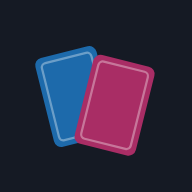
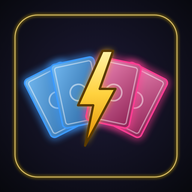
Add files via upload

diff --git a/index.html b/index.html
@@ -975,6 +975,50 @@ details.giocati[open] > summary { margin-bottom: 4px; }
   .finale-torneo .stella.con-testo, .finale-torneo .btn { padding: 6px 12px; }
 }
 
+/* ---------- Apertura dell'app (solo telefoni) ----------
+   Sfondo come l'icona, logo un po' sopra il centro, nome al neon che si accende.
+   Si vede dal primo istante (prima che parta il codice) e lo chiude app.js. */
+.apertura { display: none; }
+@media (hover: none) and (pointer: coarse) and (max-width: 600px),
+       (hover: none) and (pointer: coarse) and (max-height: 600px) {
+  :root:not(.app-aperta) { background: #0d0c18; }
+  :root:not(.app-aperta) .apertura { display: grid; }
+}
+.apertura {
+  position: fixed; inset: 0; z-index: 50;
+  background: radial-gradient(ellipse 90% 70% at 50% 45%, #1e1b38 0%, #0d0c18 55%, #07080d 100%);
+  align-content: center; justify-items: center; gap: clamp(18px, 4.5vh, 34px);
+  padding: var(--alto) 24px calc(env(safe-area-inset-bottom, 0px) + 9vh);   /* un po' sopra il centro */
+  transition: opacity .38s ease;
+  /* Per sicurezza: se il codice non parte, dopo 6 secondi sparisce da sola */
+  animation: apertura-sicura 0s 6s forwards;
+}
+.apertura.chiude { opacity: 0; pointer-events: none; }
+@keyframes apertura-sicura { to { visibility: hidden; pointer-events: none; } }
+.apertura-logo {
+  width: min(68vw, 42vh, 320px); height: auto; overflow: visible;
+  animation: apertura-logo .75s cubic-bezier(.2, .8, .2, 1) both;
+}
+@keyframes apertura-logo {
+  from { opacity: 0; transform: translateY(14px) scale(.9); }
+  to { opacity: 1; transform: none; }
+}
+.apertura-nome {
+  display: flex; font-family: var(--font-num); font-weight: 700; line-height: 1;
+  font-size: clamp(2.6rem, 13vw, 4rem); letter-spacing: .02em; transform: skewX(-8deg);
+}
+/* Neon: il tubo è il contorno chiaro delle lettere, il colore è la luce intorno */
+.neon {
+  color: transparent; -webkit-text-stroke: 2px var(--tubo);
+  filter: drop-shadow(0 0 2px var(--tubo)) drop-shadow(0 0 8px var(--luce)) drop-shadow(0 0 20px var(--luce));
+}
+.neon.blu { --tubo: #d9edff; --luce: #3d9bff; animation: neon-accende 1.1s .3s both; }
+.neon.mag { --tubo: #ffdcec; --luce: #ff3d93; animation: neon-accende 1.1s .55s both; }
+@keyframes neon-accende {
+  0% { opacity: 0; } 8% { opacity: .9; } 12% { opacity: .1; } 20% { opacity: 1; }
+  24% { opacity: .25; } 32%, 100% { opacity: 1; }
+}
+
 @media (prefers-reduced-motion: reduce) {
   *, *::before, *::after { animation: none !important; transition: none !important; }
   .delta.mostra { opacity: 1; }
@@ -1417,18 +1461,68 @@ details.giocati[open] > summary { margin-bottom: 4px; }
   <button type="button" class="btn" id="ruota-continua" data-t="ruota.continua">Continua in verticale</button>
 </div>
 
+<!-- Apertura dell'app (solo sui telefoni): logo e nome al neon, poi la Home -->
+<div class="apertura" id="apertura" aria-hidden="true">
+  <svg xmlns="http://www.w3.org/2000/svg" viewBox="40 96 432 336" class="apertura-logo" aria-hidden="true" focusable="false">
+    <defs>
+      <radialGradient id="ap-bg" cx="50%" cy="48%" r="72%">
+        <stop offset="0" stop-color="#1e1b38"/><stop offset="1" stop-color="#07080d"/>
+      </radialGradient>
+      <linearGradient id="ap-oro" x1="0" y1="0" x2="0" y2="1">
+        <stop offset="0" stop-color="#fff2a8"/><stop offset=".45" stop-color="#ffd23f"/><stop offset="1" stop-color="#e08a00"/>
+      </linearGradient>
+      <filter id="ap-alone" x="-60%" y="-60%" width="220%" height="220%"><feGaussianBlur stdDeviation="11"/></filter>
+      <filter id="ap-alone2" x="-50%" y="-50%" width="200%" height="200%"><feGaussianBlur stdDeviation="4"/></filter>
+      <linearGradient id="ap-blu" x1="0" y1="0" x2="1" y2="1">
+        <stop offset="0" stop-color="#74baf2"/><stop offset="1" stop-color="#1a5794"/>
+      </linearGradient>
+      <linearGradient id="ap-mag" x1="0" y1="0" x2="1" y2="1">
+        <stop offset="0" stop-color="#f28bba"/><stop offset="1" stop-color="#8e2255"/>
+      </linearGradient>
+    </defs>
+    <g transform="translate(256 262) scale(.84) translate(-256 -261)">
+      <g transform="translate(256 506) rotate(-27)">
+        <rect x="-70" y="-372" width="140" height="206" rx="14" fill="none" stroke="#3d9bff" stroke-width="16" opacity=".7" filter="url(#ap-alone)"/>
+        <rect x="-70" y="-372" width="140" height="206" rx="14" fill="url(#ap-blu)" stroke="#3d9bff" stroke-width="5"/>
+        <rect x="-59" y="-361" width="118" height="184" rx="8" fill="none" stroke="#fff" stroke-opacity=".45" stroke-width="4"/>
+        <circle cx="0" cy="-269" r="26" fill="none" stroke="#fff" stroke-opacity=".5" stroke-width="5"/>
+      </g>
+      <g transform="translate(256 506) rotate(27)">
+        <rect x="-70" y="-372" width="140" height="206" rx="14" fill="none" stroke="#ff3d93" stroke-width="16" opacity=".7" filter="url(#ap-alone)"/>
+        <rect x="-70" y="-372" width="140" height="206" rx="14" fill="url(#ap-mag)" stroke="#ff3d93" stroke-width="5"/>
+        <rect x="-59" y="-361" width="118" height="184" rx="8" fill="none" stroke="#fff" stroke-opacity=".45" stroke-width="4"/>
+        <circle cx="0" cy="-269" r="26" fill="none" stroke="#fff" stroke-opacity=".5" stroke-width="5"/>
+      </g>
+      <g transform="translate(256 506) rotate(-12)">
+        <rect x="-70" y="-372" width="140" height="206" rx="14" fill="none" stroke="#3d9bff" stroke-width="16" opacity=".7" filter="url(#ap-alone)"/>
+        <rect x="-70" y="-372" width="140" height="206" rx="14" fill="url(#ap-blu)" stroke="#3d9bff" stroke-width="5"/>
+        <rect x="-59" y="-361" width="118" height="184" rx="8" fill="none" stroke="#fff" stroke-opacity=".45" stroke-width="4"/>
+        <circle cx="0" cy="-269" r="26" fill="none" stroke="#fff" stroke-opacity=".5" stroke-width="5"/>
+      </g>
+      <g transform="translate(256 506) rotate(12)">
+        <rect x="-70" y="-372" width="140" height="206" rx="14" fill="none" stroke="#ff3d93" stroke-width="16" opacity=".7" filter="url(#ap-alone)"/>
+        <rect x="-70" y="-372" width="140" height="206" rx="14" fill="url(#ap-mag)" stroke="#ff3d93" stroke-width="5"/>
+        <rect x="-59" y="-361" width="118" height="184" rx="8" fill="none" stroke="#fff" stroke-opacity=".45" stroke-width="4"/>
+        <circle cx="0" cy="-269" r="26" fill="none" stroke="#fff" stroke-opacity=".5" stroke-width="5"/>
+      </g>
+    </g>
+    <path d="M20 -162 L-64 24 H-12 L-40 162 L64 -32 H10 L56 -162 Z" transform="translate(258 262) scale(0.78)" fill="#ffc21a" opacity=".9" filter="url(#ap-alone)"/><path d="M20 -162 L-64 24 H-12 L-40 162 L64 -32 H10 L56 -162 Z" transform="translate(258 262) scale(0.78)" fill="url(#ap-oro)" stroke="#5a3a00" stroke-width="7.7" stroke-linejoin="round"/>
+  </svg>
+  <div class="apertura-nome"><span class="neon blu">Duel</span><span class="neon mag">Manager</span></div>
+</div>
+
 <div id="toast" class="toast" role="status" hidden></div>
 
-<script src="partita.js?v=202610171228"></script>
-<script src="torneo.js?v=202610171228"></script>
-<script src="cronologia.js?v=202610171228"></script>
-<script src="base.js?v=202610171228"></script>
-<script src="lingua.js?v=202610171228"></script>
-<script src="duello.js?v=202610171228"></script>
-<script src="torneo-ui.js?v=202610171228"></script>
-<script src="cronologia-ui.js?v=202610171228"></script>
-<script src="app.js?v=202610171228"></script>
+<script src="partita.js?v=202610171252"></script>
+<script src="torneo.js?v=202610171252"></script>
+<script src="cronologia.js?v=202610171252"></script>
+<script src="base.js?v=202610171252"></script>
+<script src="lingua.js?v=202610171252"></script>
+<script src="duello.js?v=202610171252"></script>
+<script src="torneo-ui.js?v=202610171252"></script>
+<script src="cronologia-ui.js?v=202610171252"></script>
+<script src="app.js?v=202610171252"></script>
 
-<script src="pwa.js?v=202610171228"></script>
+<script src="pwa.js?v=202610171252"></script>
 </body>
 </html>

diff --git a/app.js b/app.js
@@ -315,6 +315,29 @@ document.addEventListener("keydown", (ev) => {
   }
 });
 
+// ---------- Apertura (solo telefoni) ----------
+// La schermata con logo e nome al neon è già visibile dal CSS: qui la si chiude
+// dopo poco (o subito toccandola). Sul computer il CSS non la mostra e si passa oltre.
+
+function avviaApertura() {
+  const schermata = $("#apertura");
+  const radice = document.documentElement;
+  if (getComputedStyle(schermata).display === "none") {
+    radice.classList.add("app-aperta");
+    return;
+  }
+  const ridotto = window.matchMedia("(prefers-reduced-motion: reduce)").matches;
+  let chiusa = false;
+  const chiudi = () => {
+    if (chiusa) return;
+    chiusa = true;
+    schermata.classList.add("chiude");                       // sfuma
+    setTimeout(() => radice.classList.add("app-aperta"), ridotto ? 0 : 400);
+  };
+  setTimeout(chiudi, ridotto ? 800 : 1600);
+  schermata.addEventListener("click", chiudi);
+}
+
 // ---------- Avvio ----------
 
 (function avvio() {
@@ -332,4 +355,5 @@ document.addEventListener("keydown", (ev) => {
   // All'apertura si parte sempre dalla Home: un duello o un torneo lasciati a metà
   // si riprendono da lì con "Riprendi"
   vai("home");
+  avviaApertura();
 })();

diff --git a/sw.js b/sw.js
@@ -10,7 +10,7 @@ const FILE_APP = [
   "./", "index.html", "manifest.webmanifest", "pwa.js",
   "partita.js", "torneo.js", "cronologia.js", "base.js", "lingua.js",
   "duello.js", "torneo-ui.js", "cronologia-ui.js", "app.js",
-  "icona-192.png", "icona-512.png", "icona-180.png", "icona-32.png",
+  "icona-192.png", "icona-512.png", "icona-180.png", "icona-32.png", "icona-tonda-512.png",
 ];
 
 self.addEventListener("install", (ev) => {
